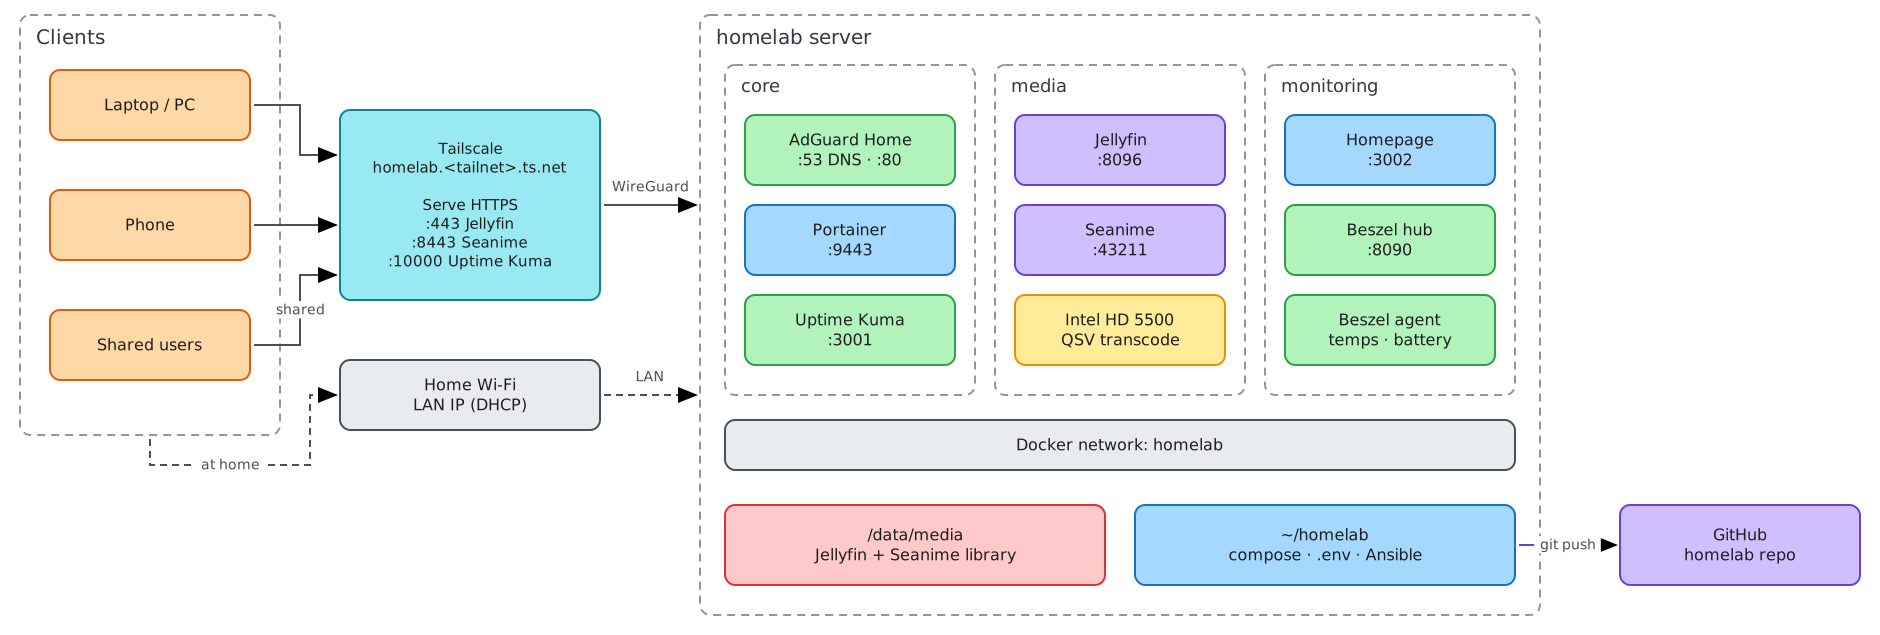
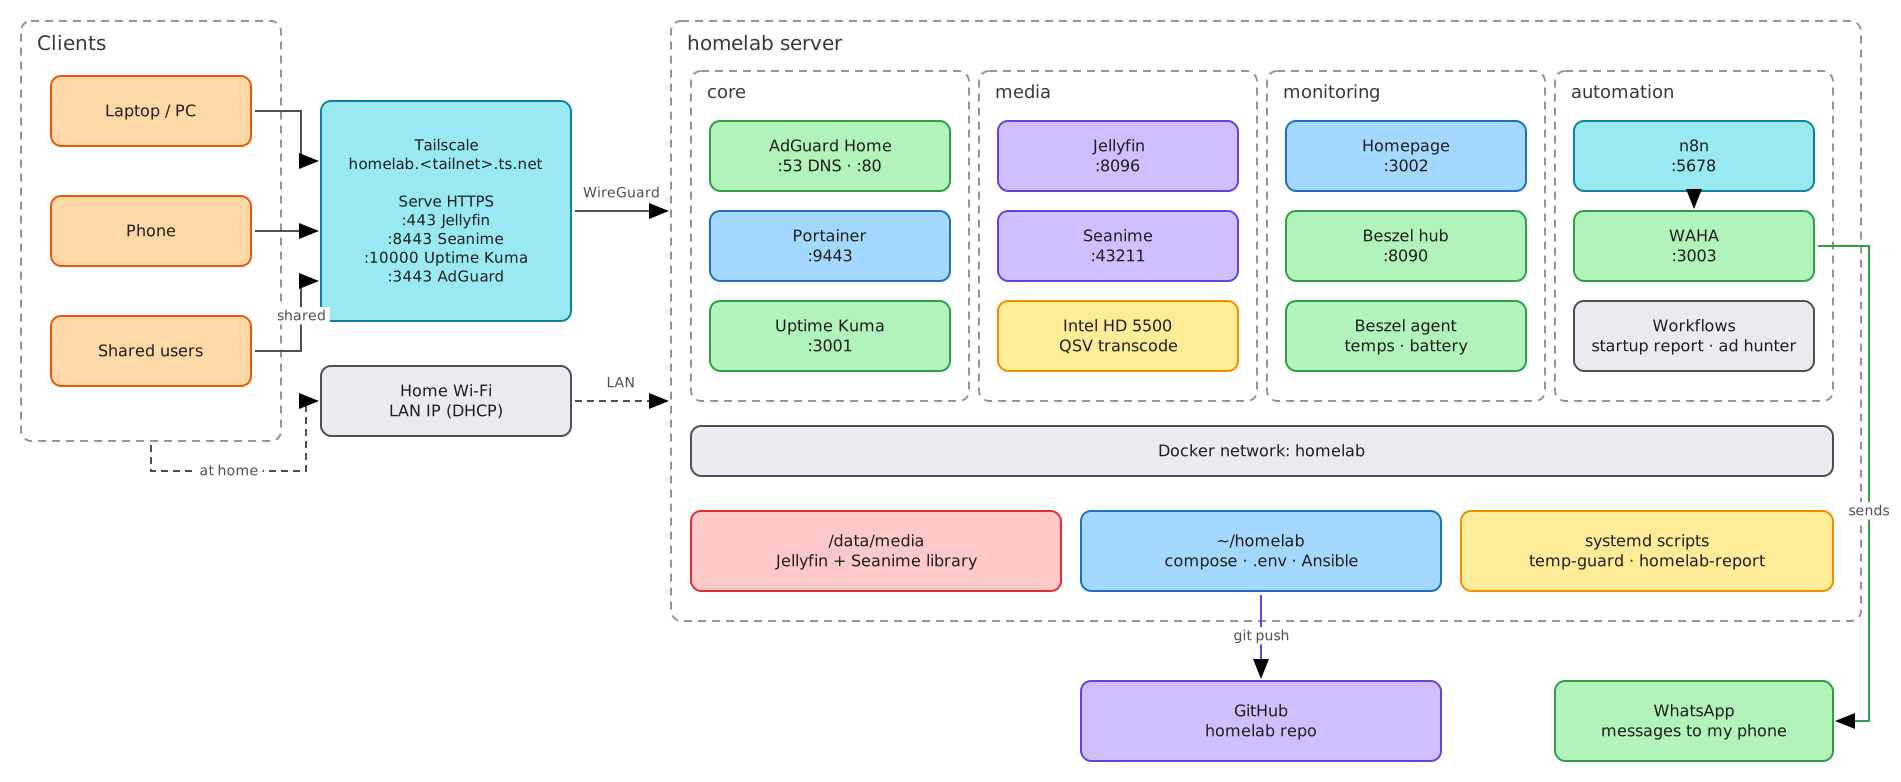
Update readme

diff --git a/README.md b/README.md
@@ -6,7 +6,7 @@ My self hosted homelab on an old laptop running Debian 13, managed with Docker C
 
 ![Architecture](docs/architecture.png)
 
-Everything runs on one old laptop, split into three stacks by purpose. `core` is for network and management, `media` is for watching, and `monitoring` is for keeping an eye on the server. I connect through Tailscale instead of opening router ports, so nothing is exposed to the public internet. The compose files and Ansible playbook live in this repo, so the whole setup can be rebuilt from Git.
+Everything runs on one old laptop, split into four stacks by purpose. `core` is for network and management, `media` is for watching, `monitoring` is for keeping an eye on the server, and `automation` sends me WhatsApp messages and runs small jobs. A few systemd scripts on the host handle things Docker can't, like shutting down if the laptop overheats. I connect through Tailscale instead of opening router ports, so nothing is exposed to the public internet. The compose files, scripts and Ansible playbook live in this repo, so the whole setup can be rebuilt from Git.
 
 ## Hardware
 
@@ -27,11 +27,15 @@ Everything runs on one old laptop, split into three stacks by purpose. `core` is
 | `core` | AdGuard Home, Portainer, Uptime Kuma | DNS ad blocking, container management, uptime checks |
 | `media` | Jellyfin, Seanime | Media server and anime library |
 | `monitoring` | Homepage, Beszel | Dashboard and resource monitoring |
+| `automation` | n8n, WAHA | WhatsApp alerts and automations |
 
 ## How it works
 
 * **Docker Compose** gives one folder per stack, all on a shared `homelab` network.
 * **Tailscale** gives private access from anywhere with no open router ports. Tailscale Serve provides HTTPS at `homelab.<tailnet>.ts.net`.
+* **AdGuard Home** is the DNS server for every Tailscale device and blocks ads with the HaGeZi Multi Pro and Threat Intelligence Feeds lists.
+* **n8n + WAHA** run my automations and send messages to my phone through a second WhatsApp number.
+* **systemd scripts** on the host send a startup report, shut down on overheating and turn the screen off when idle.
 * **Ansible** uses `ansible/site.yml` to rebuild the server setup from scratch.
 * **Media** lives under one `/data` root, so downloads and the library share a disk.
 * **Hardware transcoding** in Jellyfin uses the Intel iGPU (Quick Sync).
@@ -40,13 +44,54 @@ Everything runs on one old laptop, split into three stacks by purpose. `core` is
 
 ![Docker setup](docs/docker.png)
 
-Each folder holds one stack with its own compose file, so I can restart `media` without touching DNS. All containers join a shared `homelab` network, which lets them reach each other by name (for example, Uptime Kuma checks Jellyfin as `jellyfin`) instead of by IP. The `unless-stopped` restart policy brings everything back after a reboot. `beszel-agent` is the exception, since it runs on the host network so it can read the laptop's real CPU temperature sensors.
+Each folder holds one stack with its own compose file, so I can restart `media` without touching DNS. All containers join a shared `homelab` network, which lets them reach each other by name (for example, n8n talks to `adguardhome` and `waha`) instead of by IP. The `unless-stopped` restart policy brings everything back after a reboot. `beszel-agent` is the exception, since it runs on the host network so it can read the laptop's real CPU temperature sensors.
 
 ## Network
 
 ![Network](docs/network.png)
 
-There are two ways in, the home WiFi when I'm at home, and Tailscale from anywhere. The server's home IP can change, but its Tailscale address never does, so links keep working even if I switch routers. Tailscale Serve adds real HTTPS for the main apps, and access rules limit what shared users can reach. AdGuard Home handles DNS for Tailscale devices, blocking ads before they load.
+There are two ways in, the home WiFi when I'm at home, and Tailscale from anywhere. The server's home IP can change, but its Tailscale address never does, so links keep working even if I switch routers. Tailscale Serve adds real HTTPS for Jellyfin, Seanime, Uptime Kuma and AdGuard, and access rules limit what shared users can reach. AdGuard Home handles DNS for Tailscale devices, blocking ads before they load. Alerts reach my phone on WhatsApp, either from n8n or straight from Uptime Kuma to WAHA.
+
+## Automations
+
+| Workflow | Trigger | What it does |
+|---|---|---|
+| Startup report (n8n) | `homelab-report` script at boot | Sends a WhatsApp message with apps up, disk, temperature and IP |
+| Downtime alerts (no n8n) | Uptime Kuma webhook straight to WAHA | Sends a WhatsApp message when an app goes down or comes back |
+| Ad hunter (n8n) | Every night at 21:00 | Finds new ad and tracker domains in the AdGuard query log, asks me on WhatsApp, and adds them to AdGuard after I approve |
+
+**Ad hunter**
+
+![Ad hunter workflow](docs/n8n-ad-hunter.png)
+
+It reads the last 24 hours of the AdGuard query log and checks each domain against the stricter HaGeZi Ultimate list and an ads or tracker name pattern. Domains already in my custom rules, and a few that break apps when blocked, are skipped. I get the list on WhatsApp with an approve link, and the workflow waits up to 24 hours before adding them as AdGuard custom rules.
+
+**Startup report**
+
+![Startup report workflow](docs/n8n-startup-report.png)
+
+A webhook receives the report from the boot script and forwards it to WAHA.
+
+Workflow exports are in `automation/workflows/` and can be imported into n8n with Import from file. Credentials and my phone number are not included.
+
+## Scripts
+
+| Script | What it does |
+|---|---|
+| `temp-guard` | Checks the CPU temperature every 30 seconds and shuts down cleanly after 3 checks in a row at 90°C or above |
+| `homelab-report` | Runs at boot, waits for n8n, checks the apps and sends the startup report |
+| `screen-idle` | Turns the laptop backlight off after 1 minute without typing and back on with a key press |
+
+The scripts are in `scripts/` and their systemd units are in `scripts/systemd/`. Ansible installs `screen-idle`. The others can be installed by hand:
+
+```bash
+sudo cp scripts/<name> /usr/local/bin/
+sudo cp scripts/systemd/<name>.* /etc/systemd/system/
+sudo systemctl daemon-reload
+sudo systemctl enable --now <name>.service
+```
+
+For `temp-guard`, enable `temp-guard.timer` instead of the service.
 
 ## Rebuild
 
